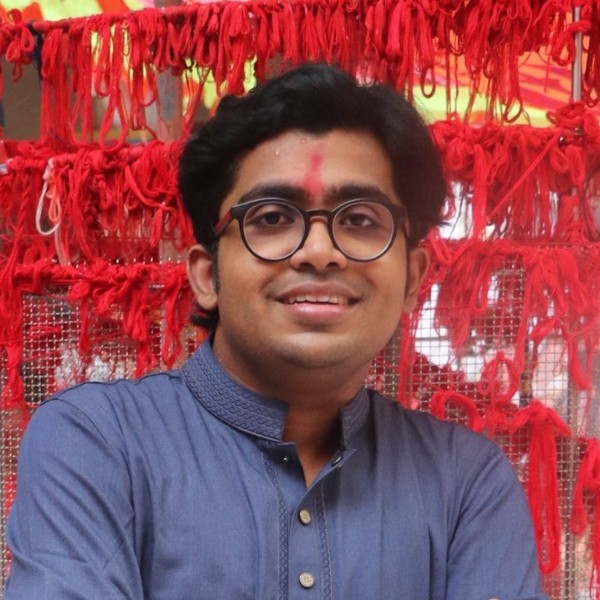
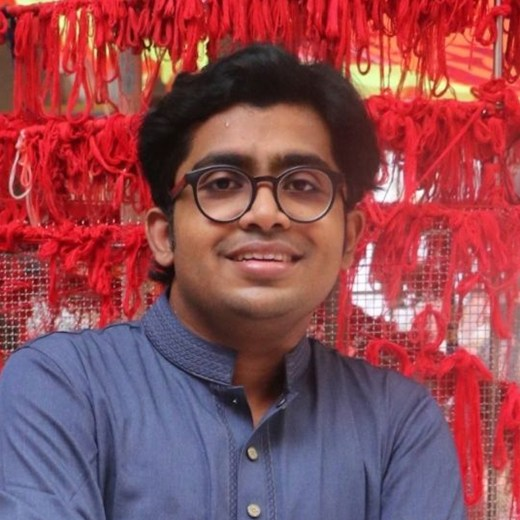
Add files via upload

diff --git a/index.html b/index.html
@@ -9,7 +9,7 @@
 <meta property="og:title" content="Swajan Sitho Paul">
 <meta property="og:description" content="Photonic crystal fiber and surface plasmon resonance sensors.">
 <meta property="og:image" content="https://swajan99.github.io/portrait.jpg?v=4">
-<link rel="icon" href="swajan.jpg">
+<link rel="icon" href="swajan.jpg?v=3">
 <link rel="preconnect" href="https://fonts.googleapis.com">
 <link rel="preconnect" href="https://fonts.gstatic.com" crossorigin>
 <link rel="stylesheet" href="https://fonts.googleapis.com/css2?family=Archivo:wdth,wght@62..125,400..900&family=Literata:ital,opsz,wght@0,7..72,400..800;1,7..72,400..700&family=JetBrains+Mono:wght@400..700&display=swap">
@@ -52,7 +52,7 @@
   <div class="wrap hero-grid">
     <div class="hero-text">
       <div class="who">
-        <img src="swajan.jpg" width="76" height="76" alt="">
+        <img src="swajan.jpg?v=3" width="76" height="76" alt="">
         <p><a href="https://mist.ac.bd/department/electrical_electronic_and_communication_engineering/faculty-members/swajan-sitho-paul">Lecturer, EECE, MIST</a><br>EEE Graduate, KUET<br>M.Sc. student, EEE, BUET</p>
       </div>
       <h1>Swajan<br>Sitho Paul</h1>
